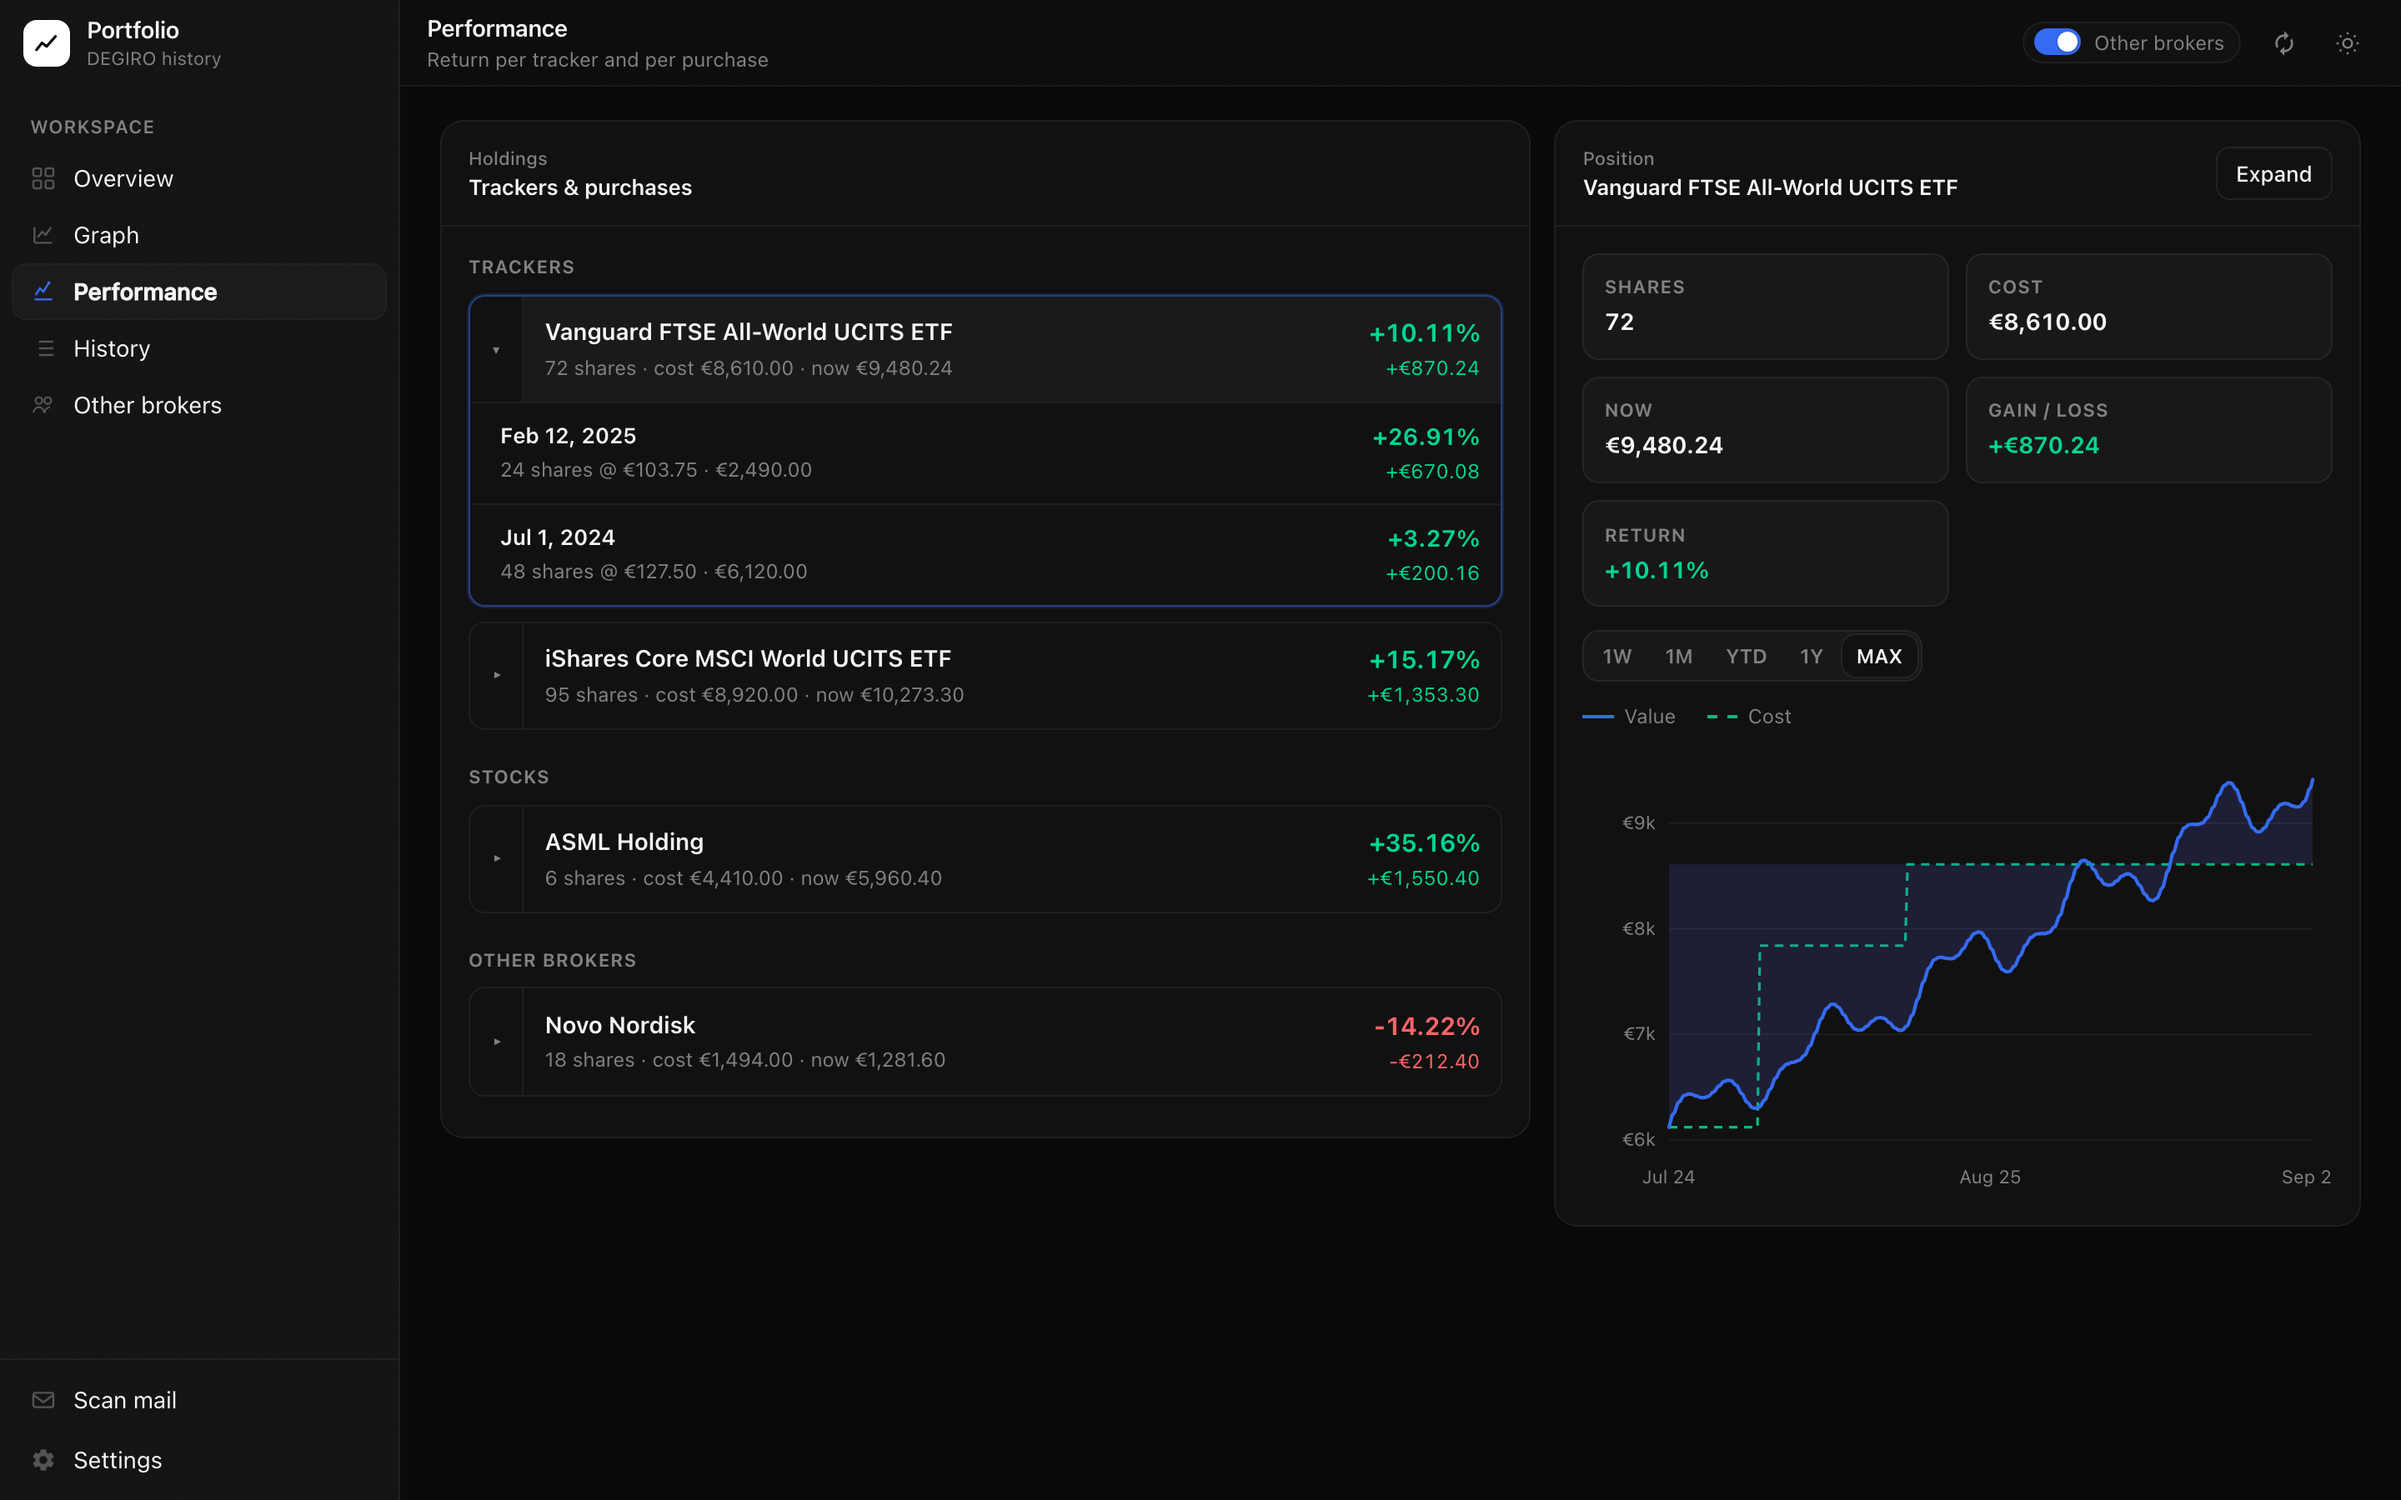
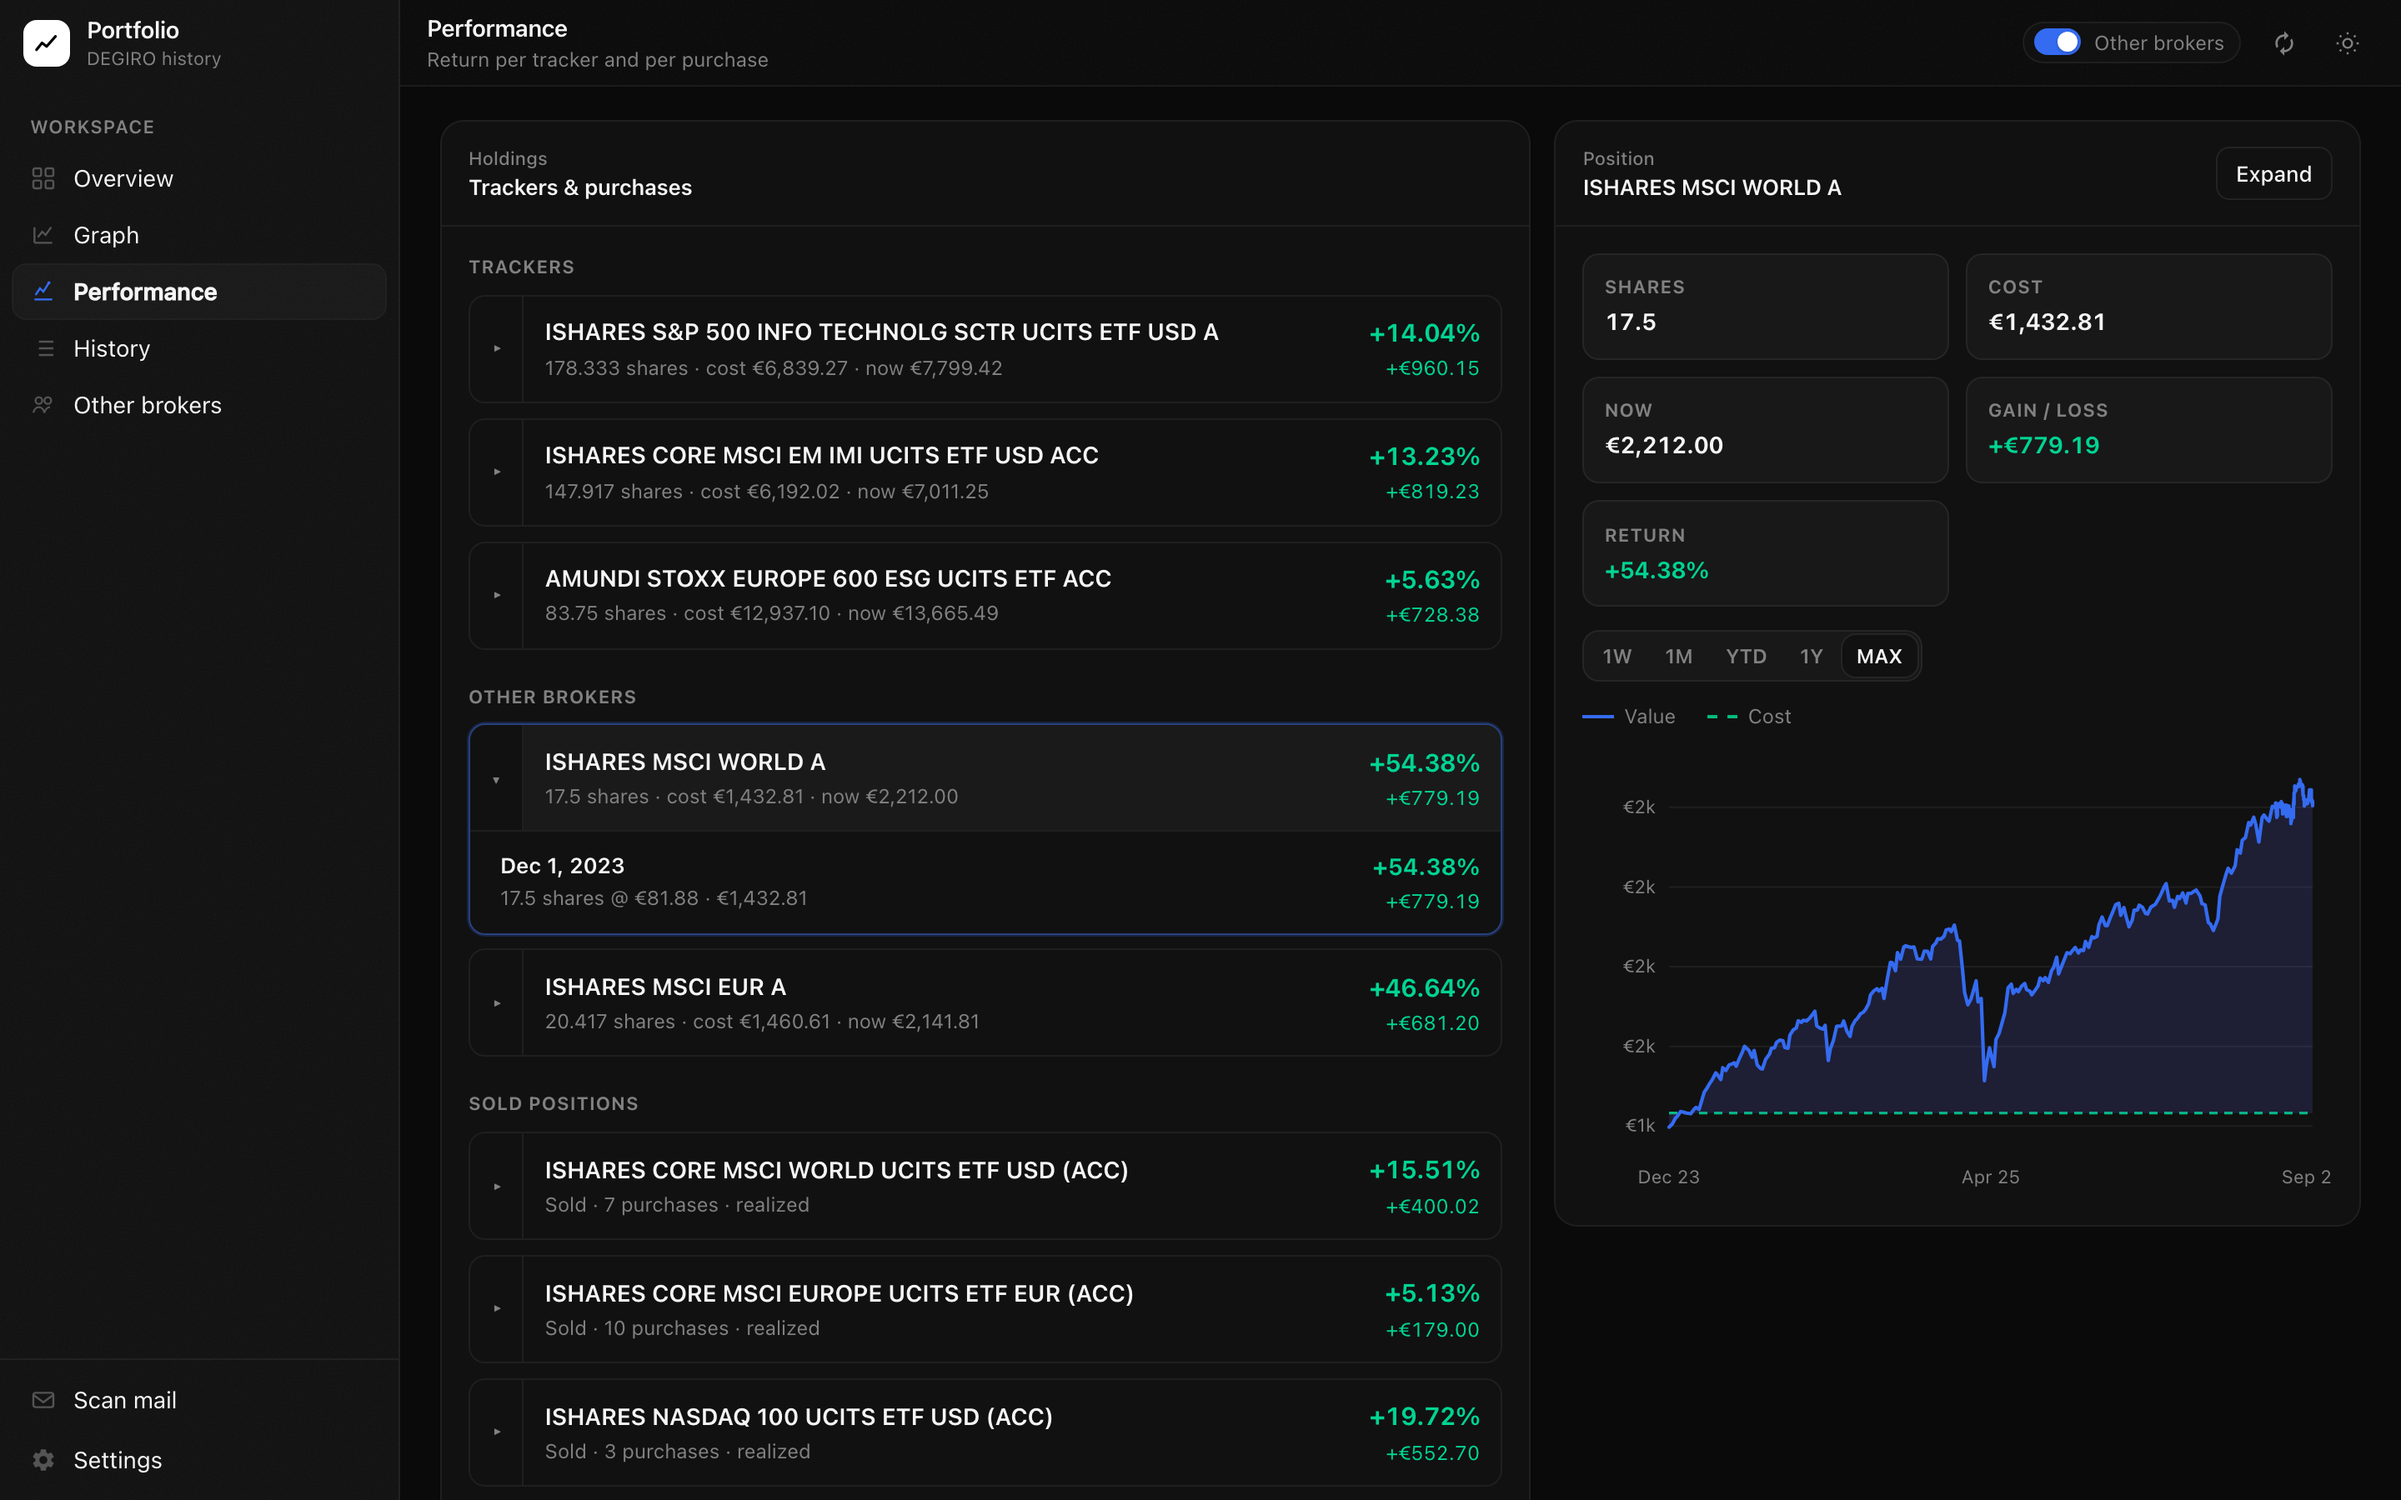
Use scaled real portfolio series in README screenshots.

diff --git a/README.md b/README.md
@@ -2,7 +2,7 @@
 
 Portfolio tracker for DEGIRO history: live value, performance per position, and mailbox import of confirmation emails.
 
-Screenshots below use **mock data**.
+Screenshots below use **anonymised sample data** (same shape as a real portfolio, amounts scaled).
 
 ## Desktop
 
